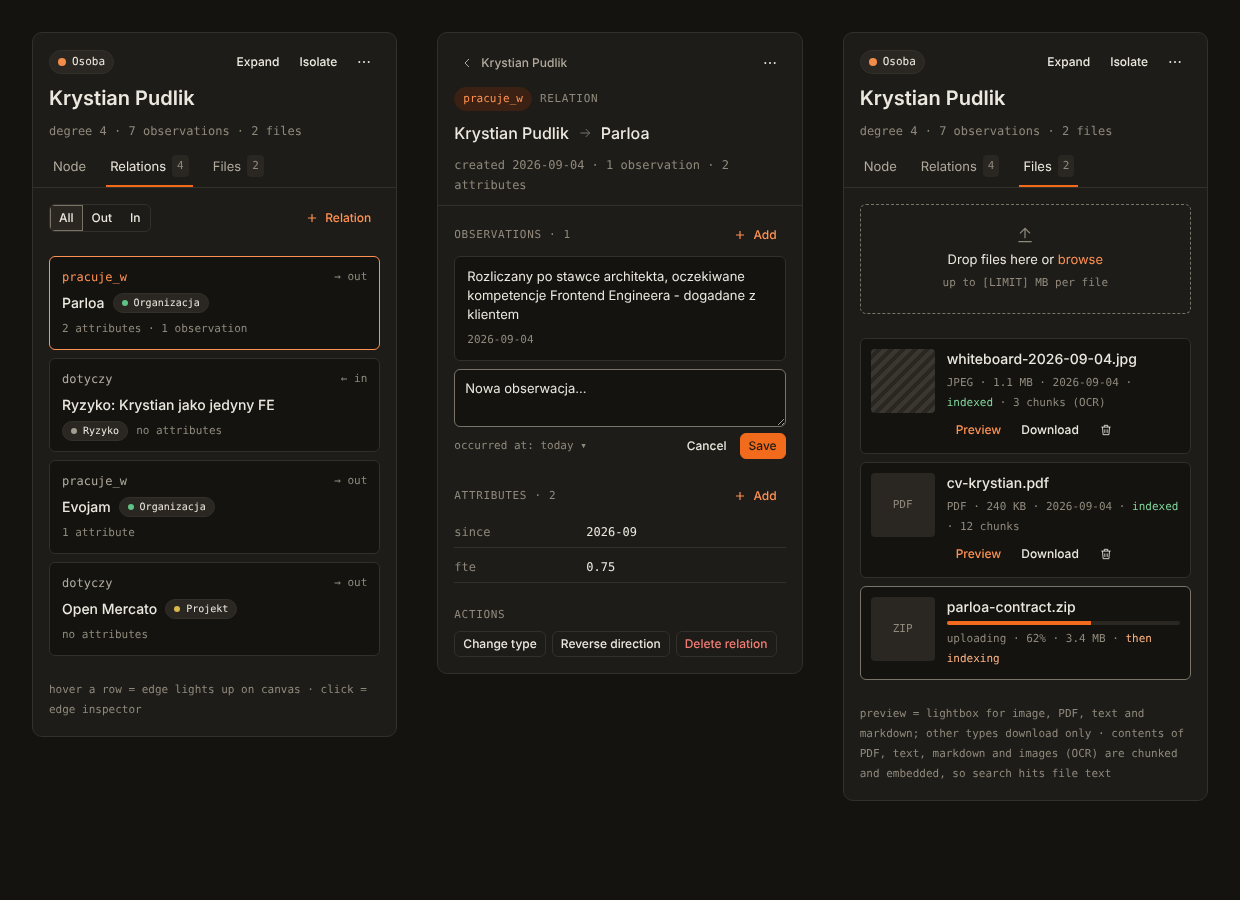
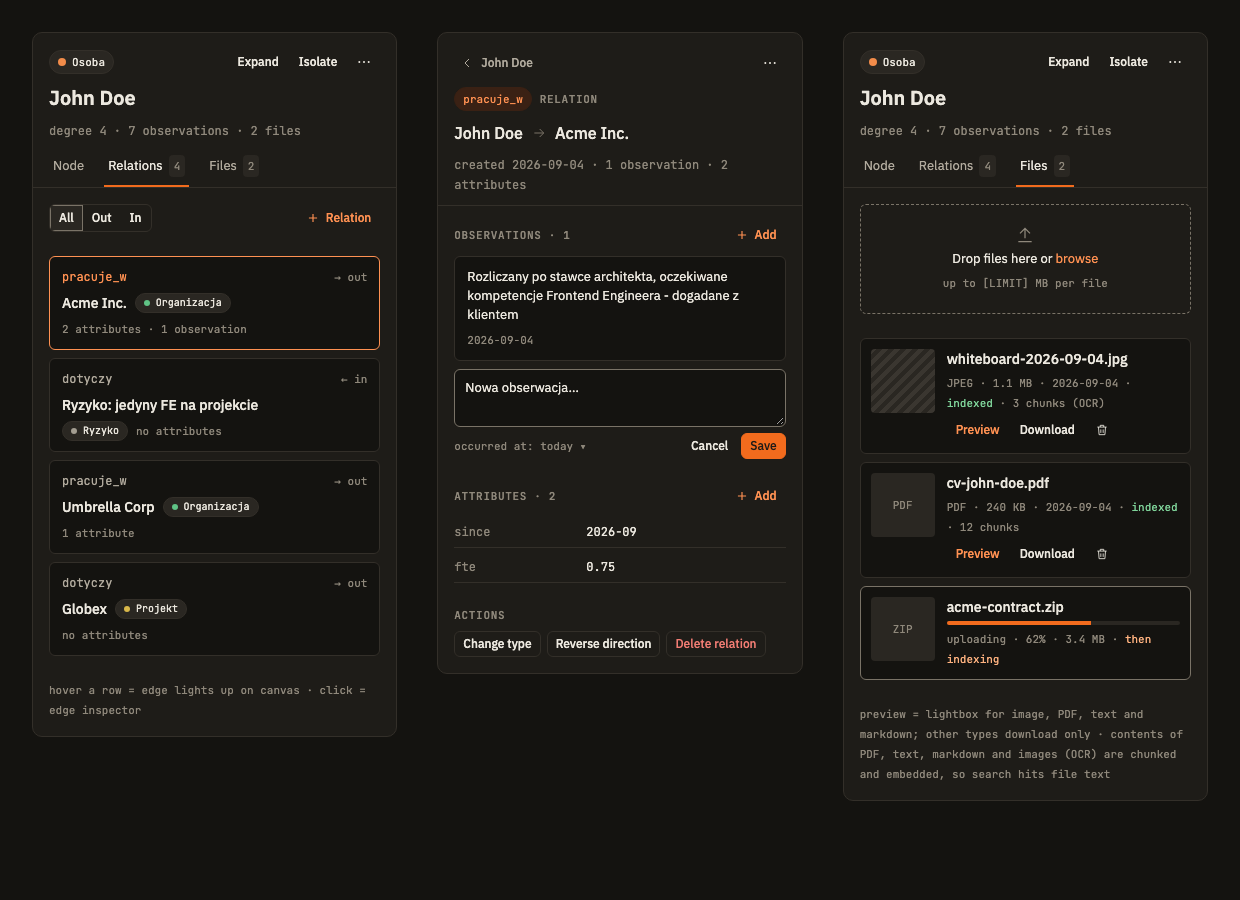
docs: replace real people and clients with fictional examples in the UI handoff and landing
The design screens, landing template and two analysis docs showed a real
person (Krystian Pudlik), a real employer (Parloa) with FTE and rate
details, and real client names. Swap them for John Doe, Acme Inc., Globex
and Umbrella Corp; regenerate the screen renders and the og.png crop from
the corrected HTML.

Tokens: ~25k. Cost: ~\$0.20 estimate.

diff --git a/designs/mcpmem-ui-handoff/screens/01-graph-explorer.html b/designs/mcpmem-ui-handoff/screens/01-graph-explorer.html
@@ -185,11 +185,11 @@ input[type=checkbox]{accent-color:#f26b1d;width:14px;height:14px;margin:0}
             <div class="row" style="justify-content:space-between"><span class="m" style="font-size:11px;color:#8f887b">2026-09-04</span><span class="row" style="gap:2px"><button class="btn ghost icon sm" aria-label="Edit observation"><svg class="ico" viewBox="0 0 24 24" fill="none" stroke="currentColor" stroke-width="1.5" style="width:14px;height:14px"><path d="M4 20h4L19 9l-4-4L4 16z"/></svg></button><button class="btn ghost icon sm" aria-label="Delete observation"><svg class="ico" viewBox="0 0 24 24" fill="none" stroke="currentColor" stroke-width="1.5" style="width:14px;height:14px"><path d="M4 7h16M10 11v6M14 11v6M6 7l1 13h10l1-13M9 7V4h6v3"/></svg></button></span></div>
           </div>
           <div class="obs">
-            <div style="font-size:13px;line-height:19px">Od września 2026 na 100% FTE w Acme Inc.</div>
+            <div style="font-size:13px;line-height:19px">Od stycznia 2026 na 100% FTE w Acme Inc.</div>
             <div class="row" style="justify-content:space-between"><span class="m" style="font-size:11px;color:#8f887b">2026-09-01</span></div>
           </div>
           <div class="obs">
-            <div style="font-size:13px;line-height:19px">W Acme Inc. rozliczany po stawce architekta, a oczekiwane są głównie kompetencje Frontend Engineera - tak jest dogadane z klientem, nie jest to rozjazd</div>
+            <div style="font-size:13px;line-height:19px">W Acme Inc. rozliczany po stawce seniora, a oczekiwane są głównie kompetencje Frontend Engineera - tak jest dogadane z klientem, nie jest to rozjazd</div>
             <div class="row" style="justify-content:space-between"><span class="m" style="font-size:11px;color:#8f887b">2026-09-04 · <span style="color:#8f887b">merged from</span> John Doe</span></div>
           </div>
           <button class="btn ghost sm" style="align-self:flex-start;color:#8f887b">Show 4 more</button>

diff --git a/designs/mcpmem-ui-handoff/landing/index.html b/designs/mcpmem-ui-handoff/landing/index.html
@@ -639,7 +639,7 @@ mcpmem --transport stdio --legacy-owner-id machine:local --enable-all</div>
             <span style="font-size:18px;font-weight:600;color:#ece8df">John Doe</span>
             <span class="m" style="font-size:11px;color:#8f887b">degree 4 · 7 observations · 2 files</span>
             <span class="cap" style="margin-top:8px">Observations</span>
-            <span style="padding:10px;border:1px solid #332f29;border-radius:6px;background:#141310;color:#ece8df;font-size:13px;line-height:19px">Od września 2026 na 100% FTE w Acme Inc.</span>
+            <span style="padding:10px;border:1px solid #332f29;border-radius:6px;background:#141310;color:#ece8df;font-size:13px;line-height:19px">Od stycznia 2026 na 100% FTE w Acme Inc.</span>
             <span class="cap" style="margin-top:8px">Attributes</span>
             <span class="m" style="font-size:12px;color:#b1aa9d">role · frontend engineer</span>
             <span class="m" style="font-size:12px;color:#b1aa9d">fte · 1.0</span>

diff --git a/site/src/template.html b/site/src/template.html
@@ -641,7 +641,7 @@ mcpmem --transport stdio --legacy-owner-id machine:local --enable-all</div>
             <span style="font-size:18px;font-weight:600;color:#ece8df">John Doe</span>
             <span class="m" style="font-size:11px;color:#8f887b">degree 4 · 7 observations · 2 files</span>
             <span class="cap" style="margin-top:8px">Observations</span>
-            <span style="padding:10px;border:1px solid #332f29;border-radius:6px;background:#141310;color:#ece8df;font-size:13px;line-height:19px">Od września 2026 na 100% FTE w Acme Inc.</span>
+            <span style="padding:10px;border:1px solid #332f29;border-radius:6px;background:#141310;color:#ece8df;font-size:13px;line-height:19px">Od stycznia 2026 na 100% FTE w Acme Inc.</span>
             <span class="cap" style="margin-top:8px">Attributes</span>
             <span class="m" style="font-size:12px;color:#b1aa9d">role · frontend engineer</span>
             <span class="m" style="font-size:12px;color:#b1aa9d">fte · 1.0</span>

diff --git a/designs/mcpmem-ui-handoff/screens/03-search.html b/designs/mcpmem-ui-handoff/screens/03-search.html
@@ -88,7 +88,7 @@ input[type=text]:focus{outline:2px solid #8fb3f7;outline-offset:2px}
         <input type="checkbox" aria-label="Select result">
         <div class="col" style="flex:1;min-width:0;gap:6px">
           <div class="row" style="flex-wrap:wrap"><a href="#n" style="color:#ece8df;font-size:15px;font-weight:500">John Doe</a><span class="tag"><span style="width:6px;height:6px;border-radius:50%;background:#f28c4a"></span>Osoba</span></div>
-          <div style="color:#b1aa9d;font-size:13px;line-height:19px">…od września 2026 na 100% FTE w Acme Inc.; jedyny <mark>FE</mark> na projekcie…</div>
+          <div style="color:#b1aa9d;font-size:13px;line-height:19px">…od stycznia 2026 na 100% FTE w Acme Inc.; jedyny <mark>FE</mark> na projekcie…</div>
           <div class="m" style="font-size:11px;color:#8f887b">matched observation · degree 4 · updated 2026-09-04</div>
         </div>
         <div class="col" style="align-items:flex-end;flex:none;gap:6px">
